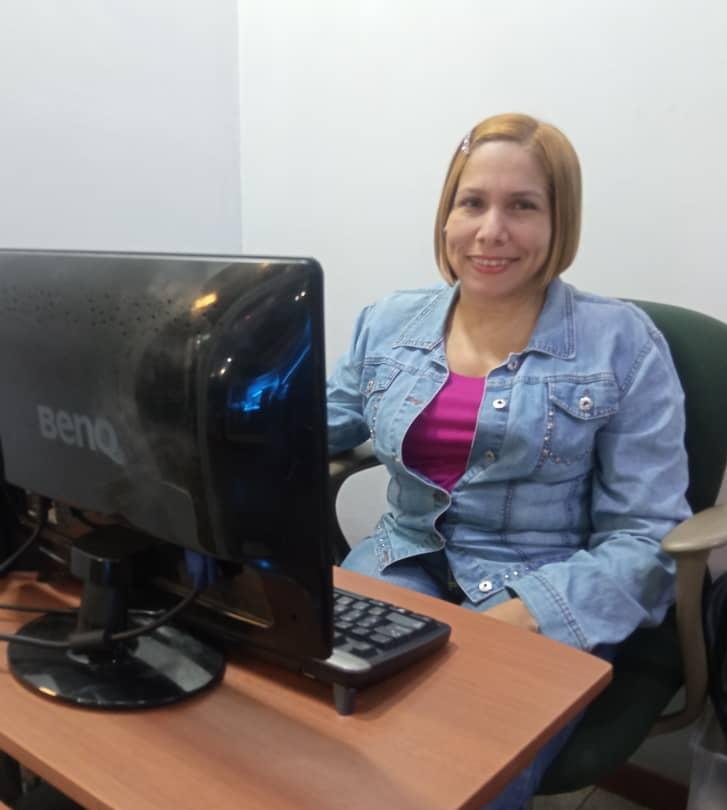
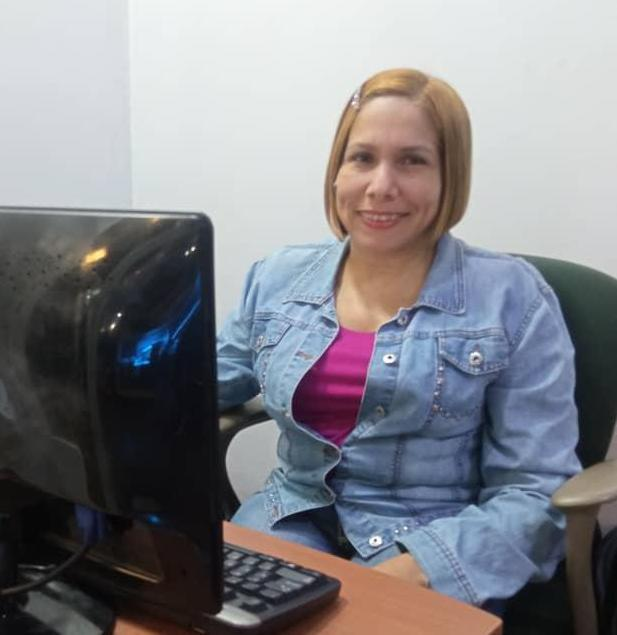
changing content of servicio expand cards, hero picture, ubicacion direction, and main padding

diff --git a/app/components/Servicios.js b/app/components/Servicios.js
@@ -6,21 +6,21 @@ import ContactButton from './ContactButton';
 import {FaScaleBalanced, FaPeopleGroup } from "react-icons/fa6";
 
 const caractCivil = [
-    'Constitución de empresas.',
-    'Contratos comerciales.',
-    'Derecho societario.',
-    'Fusiones y adquisiciones.',
-    'Propiedad intelectual y marcas comerciales.',
-    'Derecho del consumidor.',
+    'Compraventa de Vehículos e Inmuebles',
+    'Poder General y Especial',
+    'Divorcio por Desafecto',
+    'Titulo Supletorio',
+    'Declaración de Herederos Universales',
+    'Contrato de Arrendamiento',
+    'Constitución de Asociaciones Civiles y Fundaciones',
+    'Justificativo de Testigos, entre otros…',
 ]
 
-const caractComercial = [
-    'Derecho de familia (divorcios, custodia de menores, alimentos, sucesiones).',
-    'Derecho inmobiliario.',
-    'Litigios civiles.',
-    'Responsabilidad civil.',
-    'Derecho del seguro.',
-    'Derecho de contratos.',
+const caractMercantil = [
+    'Registro de Compañía Anónima',
+    'Registro PYMES',
+    'Firma Personal',
+    'Actas de Asambleas',
 ]
 
 export default function Servicios() {
@@ -30,20 +30,21 @@ export default function Servicios() {
         <section id='servicios' className='section row servicios'>
             <div className='col-12 d-block d-md-flex d-xxl-block col-xxl-3'>
 
-
-                <ServicioCard 
-                    title='Derecho Mercantil'
-                    description='Potenciamos tu negocio con asesoramiento legal sólido y estratégico. Protegemos tus intereses para que puedas alcanzar el éxito empresarial que deseas.'
-                    icon={<FaScaleBalanced/>}
-                    caracts={caractComercial}
-                    />
-
                 <ServicioCard 
                     title='Derecho Civil'
-                    description='Tu bienestar y tus derechos son nuestra prioridad. Nuestro equipo legal está aquí para defender tus intereses y encontrar la mejor resolución para tus conflictos legales.'
+                    description='Tu bienestar es nuestra prioridad, por eso elaboramos tus documentos jurídicos y realizamos tus trámites en Tribunales Civiles, para la mejor protección de tus derechos e intereses.'
                     icon={<FaPeopleGroup/>}
                     caracts={caractCivil}
                     />
+
+                <ServicioCard 
+                    title='Derecho Mercantil'
+                    description='Brindamos el asesoramiento legal necesario para el registro de tu empresa.
+                    Protegemos tus intereses para que puedas alcanzar el éxito empresarial que deseas.'
+                    icon={<FaScaleBalanced/>}
+                    caracts={caractMercantil}
+                    />
+
 
             </div>
       
@@ -55,9 +56,7 @@ export default function Servicios() {
                     height={600}
                     alt="Foto de la Abogada Magdiele"
                     />
-            <div className="d-none d-md-flex d-lg-none">
-                <ContactButton  />
-            </div>
+          
             </figure>
 
             
@@ -66,10 +65,10 @@ export default function Servicios() {
 
                 <h3>NOS ALEGRA QUE <span className='no-wrap'>ESTES AQUI</span></h3>
                 <p className='variable-font'>
-                Te brindamos asesoramiento legal sólido y estratégico, respaldado por un equipo de abogados expertos y comprometidos en proteger tus intereses. Nuestra atención personalizada, combinada con nuestra amplia experiencia y conocimiento en el campo legal, nos permite ofrecerte soluciones efectivas y resultados positivos. Confía en nosotros para resolver tus problemas legales de manera justa, eficiente y exitosa. Tu satisfacción y tranquilidad son nuestra máxima prioridad
+                Te brindamos asesoramiento legal personalizado, con el compromiso de ofrecerte soluciones rápidas, efectivas, y con los mejores precios
                 </p>
                 
-                <div className="d-flex d-md-none d-lg-flex">
+                <div className="d-flex">
                   <ContactButton  />
                 </div>
             </article>

diff --git a/app/components/Hero.js b/app/components/Hero.js
@@ -7,11 +7,10 @@ export default function Hero() {
             
             <div className='text-hero col-12 col-md-6 d-flex flex-column gap-1 gap-md-2 gap-lg-3 gap-xl-4 gap-xxl-5'>
                 <h1 className="name"><strong>Abogada Magdiele Mendoza</strong></h1>
-                <h2 className="title">Derecho <span className='no-wrap'>Mercantil y Civil</span></h2>
-                <h4 className="paragraph">Brindando soluciones legales efectivas para el sector Mercantil y Civil desde hace más de <span className="special-text" >15 años</span>
-                <br/><br/>
-                <span className=''>Obtenga un presupuesto sin compromisos.</span> </h4>
+                <h2 className="title">Derecho Civil y Mercantil</h2>
+                <h4 className="paragraph">Brindando soluciones legales efectivas para el sector Civil  y Mercantil,desde hace más de 15 años </h4>
                 
+                <h4 className=''>Obtenga un presupuesto sin compromisos.</h4>
                 <div className='d-flex d-md-block'>
                     <ContactButton />                
                 </div>

diff --git a/app/components/Ubicacion.js b/app/components/Ubicacion.js
@@ -54,7 +54,7 @@ export default function Ubicacion () {
                 <div className='mb-5 mb-md-0 col-md-6'>
 
                     <h2 className="subtitle">Ubicación</h2>
-                    <h3>Ubicados en el Mercado Gloria al Bravo Pueblo, piso 1, local 210-212 Avenida Francisco de Miranda, Caracas 1073, Miranda, Venezuela</h3>
+                    <h3>Centro Comercial Gloria al Bravo Pueblo, piso 1, local 210-212 Avenida Francisco de Miranda, Caracas 1073, Miranda, Venezuela</h3>
 
                     <iframe src="https://www.google.com/maps/embed?pb=!1m18!1m12!1m3!1d3923.278706556812!2d-66.81243872596984!3d10.478681389652563!2m3!1f0!2f0!3f0!3m2!1i1024!2i768!4f13.1!3m3!1m2!1s0x8c2a596ecd8e722b%3A0xae62a633343cf1fe!2sAbogada%20Civil%20y%20Mercantil%20Magdiele%20Mendoza!5e0!3m2!1ses-419!2sbr!4v1684617076462!5m2!1ses-419!2sbr" 
                             width="350" height="350" style={{border:0}} allowFullScreen="" loading="lazy" referrerPolicy="no-referrer-when-downgrade"></iframe>

diff --git a/app/components/ServicioCard.js b/app/components/ServicioCard.js
@@ -34,8 +34,8 @@ export default function ServicioCard({title, icon, description, caracts}) {
             </div>
 
             <div    onClick={handleSelect}
-                    className={`card bg-gray p-4 max-w-350px mx-auto card-extra  ${selected ? 'active mt-1 mb-4' : ''}`} >
-                <ul>
+                    className={`card bg-gray p-4 max-w-350px mx-auto card-extra ${selected ? 'active mt-1 mb-4' : ''}`} >
+                <ul className="d-flex flex-column justify-content-between gap-2">
                     {caracts.map((caract, index) =>
                     <li key={index}> 
                         {caract}

diff --git a/app/globals.css b/app/globals.css
@@ -53,7 +53,18 @@ img {
 }
 .main {
     min-height: 95vh;
-    padding-top: 78px;
+    padding-top: 60px;
+}
+
+@media (min-width: 768px) and (max-width: 1000px) {
+    .main {
+        padding-top: 10px;
+    }
+}
+@media (min-width: 1200px) {
+    .main {
+        padding-top: 78px;
+    }
 }
 
 .warning-btn {

diff --git a/app/styles/Servicio.css b/app/styles/Servicio.css
@@ -26,7 +26,8 @@
 
 }
 .card-extra.active {
-    max-height: 250px;
+    display: gird;
+    max-height: 400px;
     line-height: inherit;
     margin: initial;
     padding: initial;
@@ -34,4 +35,8 @@
 }
 .normal-img {
     width: clamp(300px, 60%, 600px)
+}
+
+ul {
+    margin-bottom: 0 !important;
 }

diff --git a/app/styles/Hero.css b/app/styles/Hero.css
@@ -15,6 +15,7 @@
     -webkit-box-shadow: 0px -1px 94px -5px rgba(120,191,204,1);
     -moz-box-shadow: 0px -1px 94px -5px rgba(120,191,204,1);
     box-shadow: 0px -1px 94px -5px rgba(120,191,204,1); */
+    max-width: 580px;
     overflow: hidden;
     border-radius: 10%;
 }

diff --git a/app/styles/Navbar.css b/app/styles/Navbar.css
@@ -24,6 +24,7 @@
     opacity: 0;
     max-height: 0;
     transition: opacity 0.4s, height 0.2s;
+    overflow: hidden;
 }
 
 .mobile.active {
